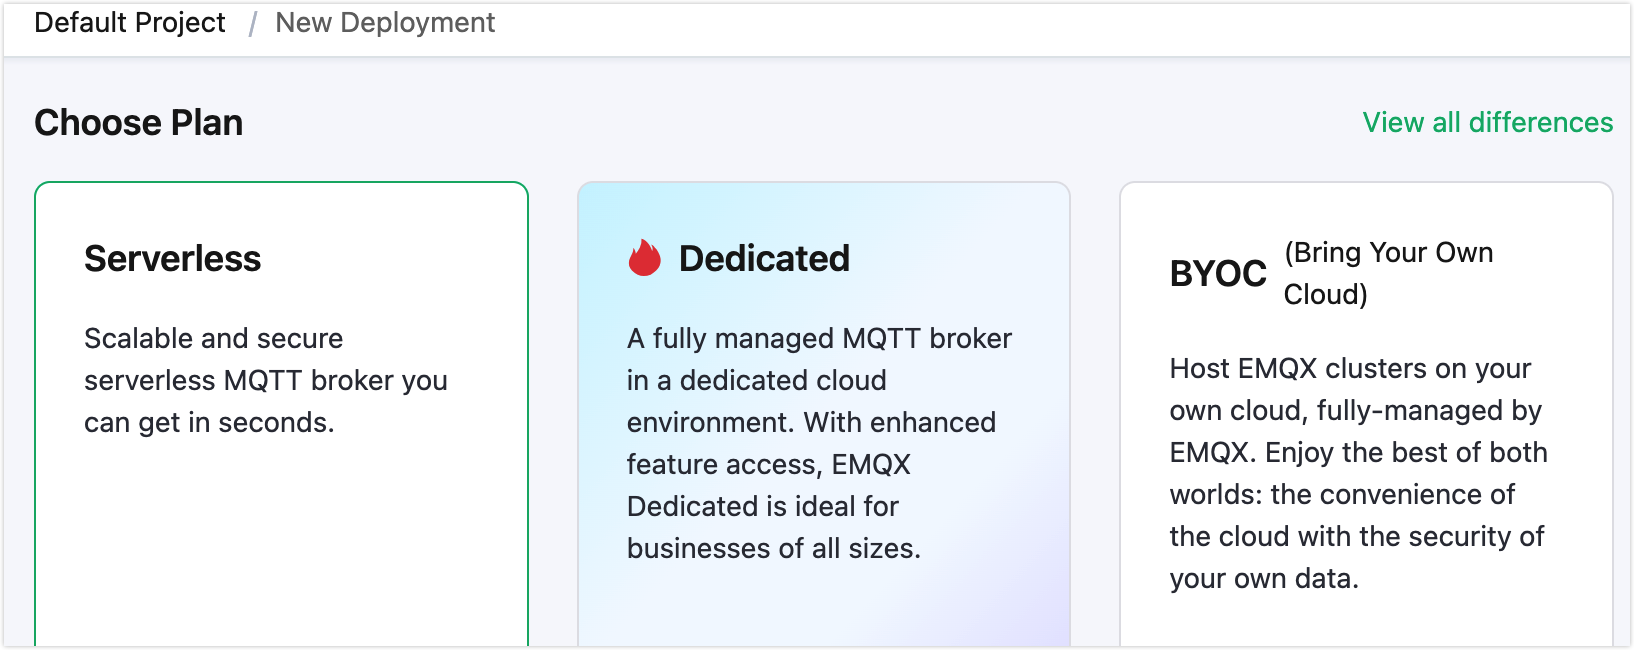
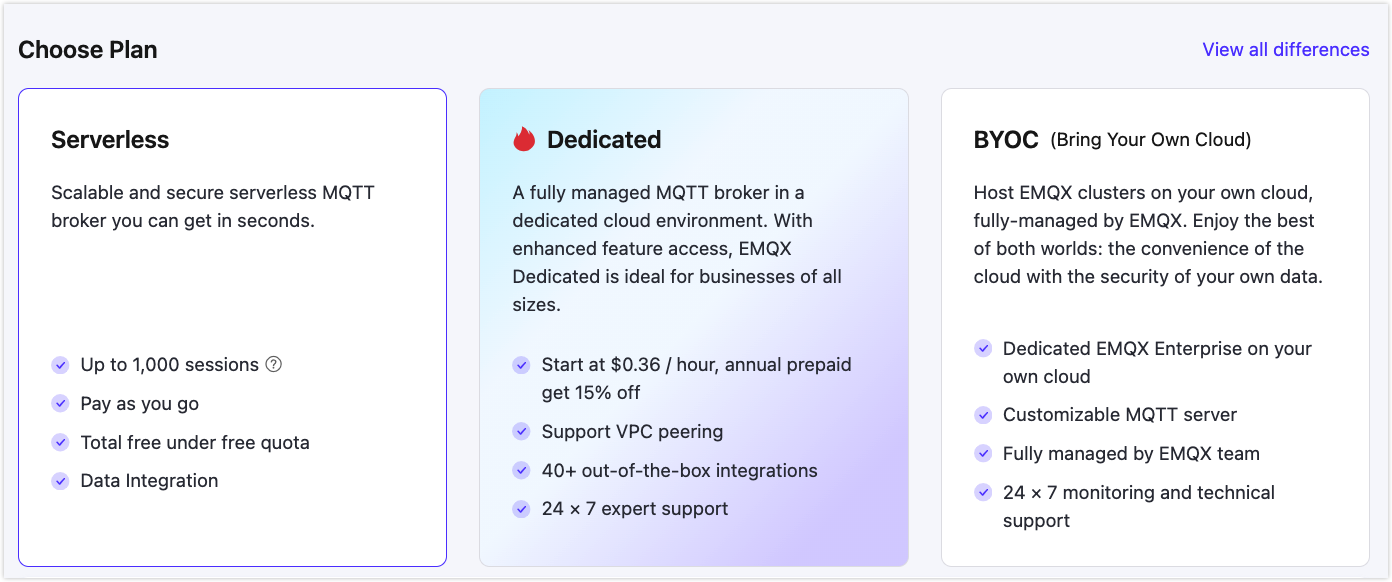
Updated steps for creating deployment

diff --git a/zh_CN/create/byoc.md b/zh_CN/create/byoc.md
@@ -10,9 +10,9 @@
 
 1. 登录账户，进入 EMQX Platform [控制台](https://cloud.emqx.com/console/)。
 
-2. 在控制台首页或部署列表页，点击**新建部署**。
+2. 在控制台首页或者部署管理页面都可以在指定项目下创建，点击**新建部署**进入创建步骤。
 
-3. 点击 BYOC 面板上的**前往部署**。
+3. 在**选择版本**中选中 **BYOC**。
 
 4. 依据您的需求选择相应规格配置。
 
@@ -28,31 +28,32 @@
 
      如您希望部署在其他区域，可通过[工单](../feature/tickets.md)或邮件（<cloud-support@emqx.io>）联系我们。
 
-   - **部署名称**：填写具有业务意义的部署名称。
-
-   - **VPC 网段**：选择用于创建 VPC 的私网地址范围。
-
    **EMQX 集群相关配置**
    ::: tip
    最大连接数需要与您申请的 EMQX BYOC 许可证保持一致。部署完成后，如需修改相关配置，可通过工单联系我们。
    :::
    - **最大连接数**：指定部署集群的 MQTT 设备最大连接数。部署完成后，也可通过工单联系我们进行升降此部署规格。
-
    - **消息上下行 TPS**：指定部署集群的消息上下行的每秒事务处理数（TPS）。
-
    - **EMQX 节点实例规格**：系统将自动根据**最大连接数**和**消息上下行 TPS** 填入推荐的实例规格，您也可以实际业务需求修改实例规格。
-
    - **EMQX 节点实例数量**：系统将自动根据**最大连接数**和**消息上下行 TPS** 填入推荐的实例数量，您也可以实际业务需求修改节点的数量（2-5 个节点）。
+   - **VPC 网段**：选择用于创建 VPC 的私网地址范围。
 
-5. 点击**下一步**进入**高级配置**，依据您的需求添加云资源标签，便于后续识别和管理，最多支持 10 个标签。
+   **部署名称和项目**
 
-6. 点击**下一步**进入**确认**页面。核对并确认上述步骤指定的配置信息，同时您也可以在此设置部署所属的项目。信息确认后，点击**新建部署**。
+   - **部署名称**：填写具有业务意义的部署名称。
+   - **所属项目**：为部署设置所属项目。
 
-成功提交后，将跳转部署详情页面，接下来，我们将根据**执行部署**章节中的步骤正式开始部署。
+   **云资源标签（可选）**：依据您的需求添加云资源标签，便于后续识别和管理，最多支持 10 个标签。
+
+5. 确认部署信息后，点击右侧的**新建部署**按钮以创建部署。此阶段将提示您查看并接受 *EMQX 平台服务协议*。请务必仔细阅读协议并接受其条款以继续。
+
+6. 接受条款后，系统将重定向到部署概览页面。
+
+接下来，我们将根据[执行部署](#执行部署)章节中的步骤正式开始部署。
 
 ## 执行部署
 
-在部署详情页面中，如果未完成操作，部署状态应该为**等待部署**。此时**连接信息**卡片将不会显示部署信息，点击卡片中的**开始部署**按钮，按照侧边栏弹出的**部署指南**指引完成部署。
+在部署概览页面中，部署进度应该为**等待部署**。此时**连接信息**中将不会显示部署信息，点击**开始部署**按钮，侧边栏将弹出**部署指南**引导您完成部署。您也可以参照以下步骤完成部署。
 
 我们将在联网的 Ubuntu 20.04 (AMD64) LTS 环境中完成部署，正式部署前，请首先将部署所需的 TLS / SSL 证书和 BYOC 许可证文件提前复制到您的 Ubuntu 环境目录。
 
@@ -217,7 +218,7 @@ Thank you for choosing our service. Happy IoT!
 
 ## 部署概览
 
-返回并刷新**部署详情**页面，可获取到部署实时状态和连接信息：
+返回并刷新**部署概览**页面，可获取到部署实时状态和连接信息：
 
    ![byoc](./_assets/byoc_deployment_console.png)
 

diff --git a/en_US/create/byoc.md b/en_US/create/byoc.md
@@ -8,13 +8,13 @@ Before you create a BYOC deployment, you must prepare an account corresponding t
 
 ## Create a Deployment
 
-1. Log in to your account and enter the [EMQX Platform console](https://cloud-intl.emqx.com/console/).
+1. Log in to your account and enter the [EMQX Platform Console](https://cloud-intl.emqx.com/console/).
 
-2. On the console homepage or the deployment list page, click **New Deployment**.
+2. To initiate a new deployment for your project, navigate to either the Console's homepage or the Deployment List page. Here, click **+ New Deployment**.
 
-3. Select the BYOC tab.
+3. In **Choose Plan**, select **BYOC**.
 
-4. Configure the cloud platform and EMQX cluster according to your needs.
+4. Configure the settings for the BYOC plan according to your needs.
 
    ![BYOCSpecification](./_assets/byoc_specification.png)
 
@@ -50,13 +50,17 @@ Before you create a BYOC deployment, you must prepare an account corresponding t
 
    **Tags (Optional)**: Add cloud resource tags according to your needs for resource management, with up to 10 tags supported.
 
-6. Review and confirm the information specified in the steps above, and you can also change the project to which this deployment belongs. After confirming the information, click **New Deployment**.
+5. Click the **New Deploy** button on the right to launch the deployment. This stage will prompt you to review and accept the *EMQX Platform Services Agreement*. It's important to thoroughly read the agreement and accept its terms to proceed.
 
-You will be redirected to the deployment details page. Next, you can start the deployment by following the steps in the [Run Deployment](#run-deployment) section.
+6. Accept the terms and it will redirect you to the deployment overview page. 
+
+Next, you can start the deployment by following the steps in the [Run Deployment](#run-deployment) section.
 
 ## Run Deployment
 
-You can follow the instructions below to complete the deployment in an Ubuntu 20.04 (AMD64) environment with a public network connection. Before you start, copy your TLS/SSL certificates and BYOC license files required for deployment to your Ubuntu environment directory.
+On the deployment overview page, the deployment status should be **Waiting for Deployment**. At this point, the **Connection Information** will not display any deployment details. Click the **Start Deployment** button, and a **Deployment Guide** sidebar will pop up to guide you through the deployment process. You can also follow the steps below to complete the deployment.
+
+The instructions below shows how to complete the deployment in an Ubuntu 20.04 (AMD64) environment with a public network connection. Before you start, copy your TLS/SSL certificates and BYOC license files required for deployment to your Ubuntu environment directory.
 
 :::: tabs
 ::: tab "AWS"
@@ -214,7 +218,7 @@ Please securely save the EMQX Dashboard username and password, as it will be use
 
 ## View Deployment Information
 
-Return and refresh the deployment details page to obtain real-time status and connection information:
+Return and refresh the deployment overview page to obtain real-time status and connection information:
 
    ![byoc](./_assets/byoc_deployment_console.png)
 

diff --git a/zh_CN/create/dedicated.md b/zh_CN/create/dedicated.md
@@ -10,7 +10,7 @@ EMQX Platform 专有版提供独立的 MQTT 服务集群，有更高的连接上
 
 2. 在控制台首页或者部署管理页面，点击**新建部署**进入创建步骤。
 
-3. 选择专有版面板。
+3. 在**选择版本**中选中**专有版**。
 
    ![select_deployment_type](./_assets/create_dedicated.png)
 
@@ -23,7 +23,7 @@ EMQX Platform 专有版提供独立的 MQTT 服务集群，有更高的连接上
    - **部署名称和项目**：为部署设置名称并选择所属项目。
    - **EMQX 版本**：默认为 v5。如果是商业用户，也可以选择 v4 版本。
    
-5. 确认部署信息后，点击 **立即部署**。并同意 EMQX Platform 标准服务条款开始创建。
+5. 确认部署信息后，点击**立即部署**。并同意 EMQX Platform 标准服务条款开始创建。
 
 6. 部署创建需要一定的时间，当部署运行状态为**运行中**后，部署创建完成并可使用。
 

diff --git a/en_US/create/serverless.md b/en_US/create/serverless.md
@@ -11,7 +11,7 @@ One of the biggest advantages of using Serverless deployment is that it is bille
 
 2. To initiate a new deployment for your project, navigate to either the Console's homepage or the Deployment List page. Here, click **+ New Deployment**.
 
-3. Select the **Serverless** tab.
+3. In **Choose Plan**, select **Serverless**.
 
    ![create_serverless](./_assets/create_serverless.png)
 

diff --git a/en_US/create/dedicated.md b/en_US/create/dedicated.md
@@ -8,7 +8,7 @@ EMQX Dedicated Plan offers independent MQTT service clusters with higher connect
 
 2. To initiate a new deployment for your project, navigate to either the Console's homepage or the Deployment List page. Here, click **+ New Deployment**.
 
-3. Select the **Dedicated** tab.
+3. In **Choose Plan**, select **Dedicated**.
 
    ![create_dedicated](./_assets/create_dedicated.png)
 

diff --git a/zh_CN/create/serverless.md b/zh_CN/create/serverless.md
@@ -13,7 +13,7 @@ Serverless 部署最大的优势在于连接场景只按照实际的使用量进
 2. 在控制台首页或者部署管理页面都可以在指定项目下创建，点击**新建部署**进入创建步骤。
 
 
-3. 选择 Serverless 面板。
+3. 在**选择版本**中选中 **Serverless**。
 
    ![create_serverless](./_assets/create_serverless.png)
    
